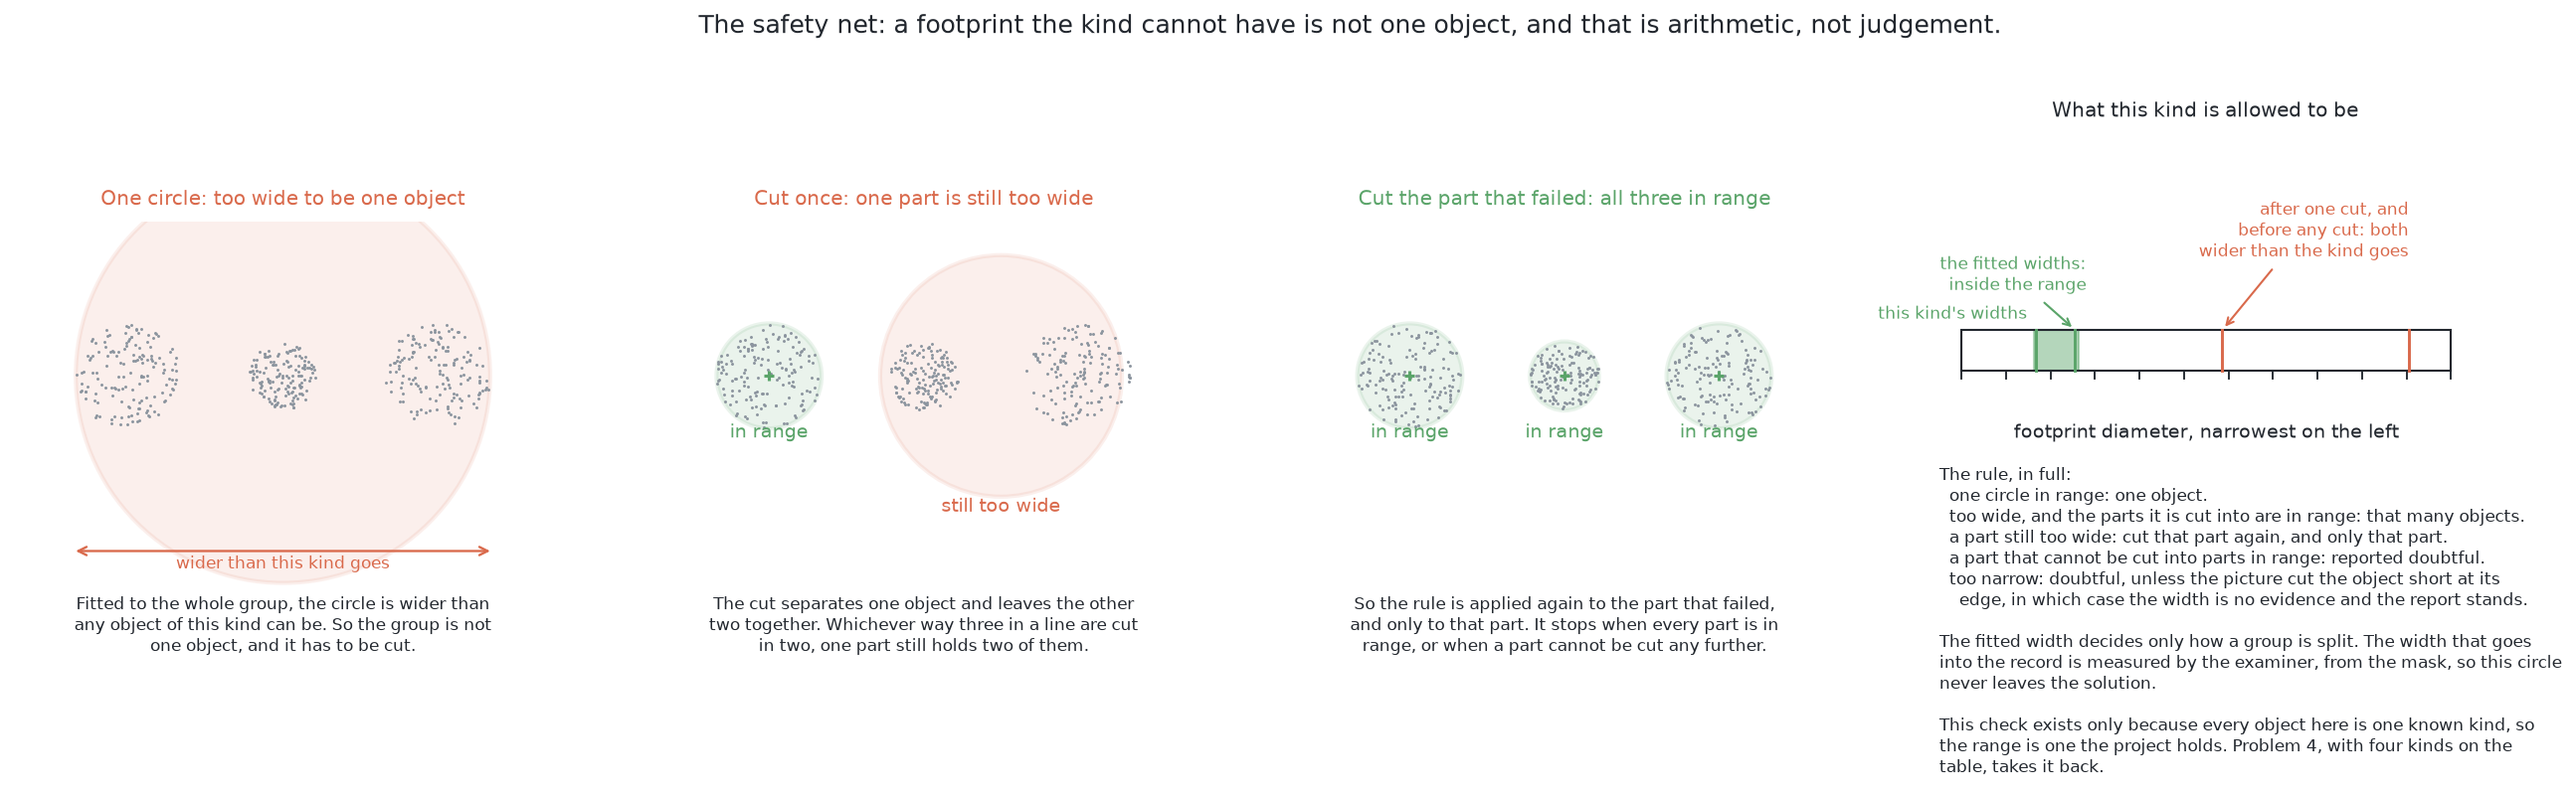
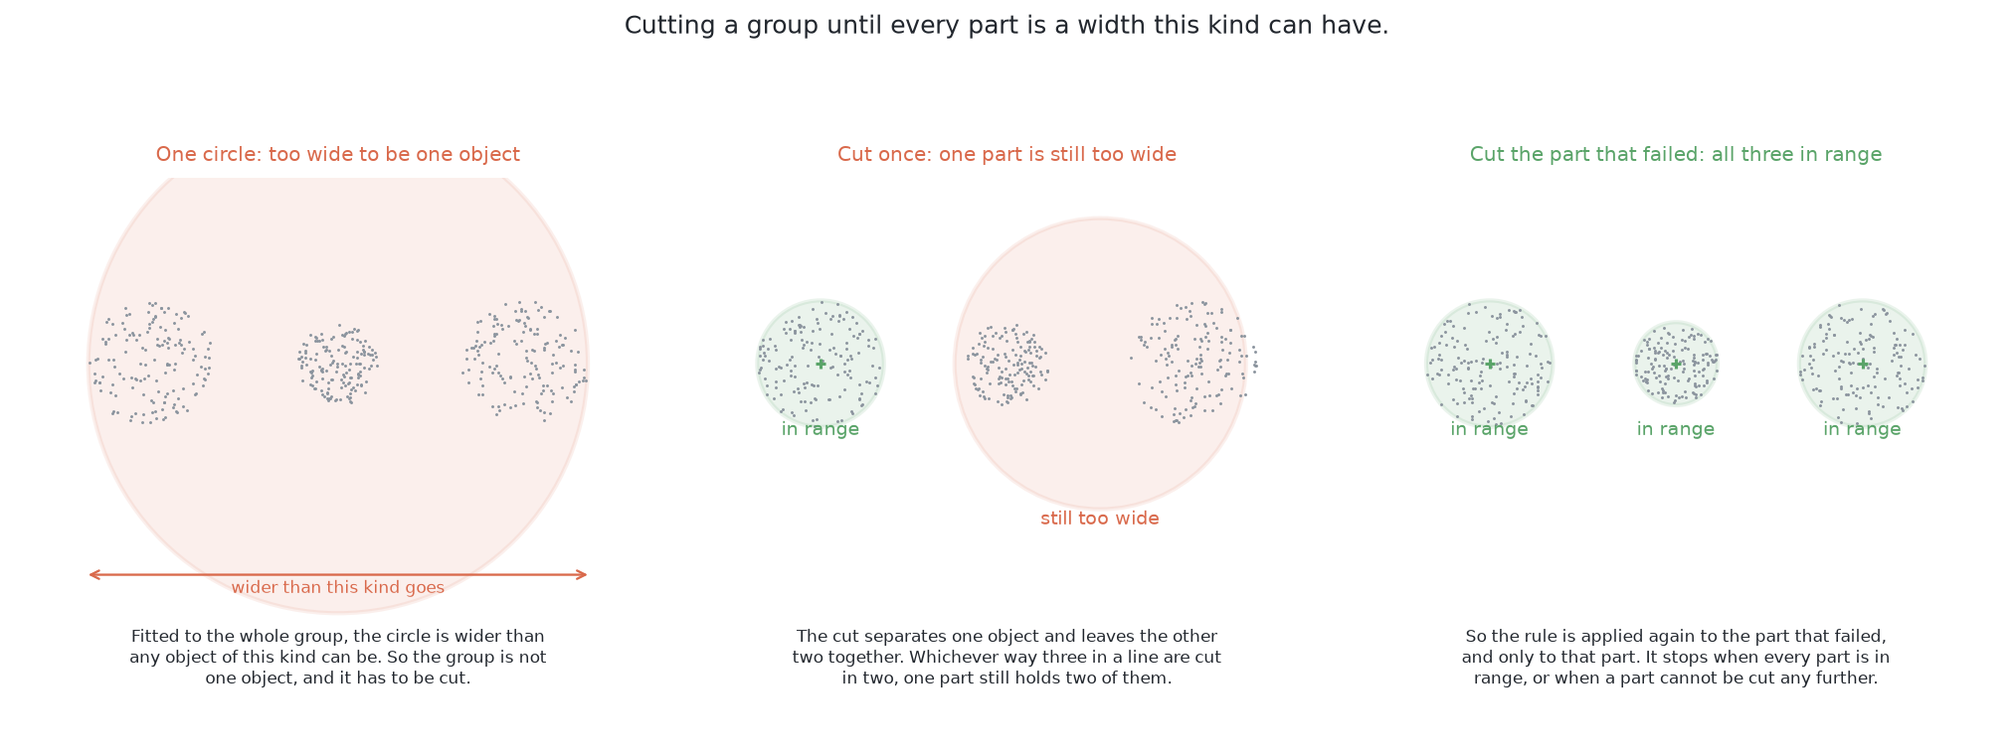
Three more pictures that were carrying two arguments each
A sweep of every multi-panel figure found three where the panels are not
one thing seen two ways, which is the only case that works.

05-where-it-stops.png was a drawing of the covered pair beside a five-step
flow chart. The chart is a whole argument on its own, so it is now its own
picture.

06-where-it-stops.png was two arrangements beside a four-row table and two
paragraphs. The two arrangements belong together and stay together; the
table is a table in the document now.

01-circle-fit-decides.png was three steps of one cutting process beside a
range bar carrying a six-line rule. The three steps stay together, the
range bar is its own picture, and the rule was already prose a few
paragraphs above it.

diff --git a/v5-pick-glasses/images/generators/02-segment-glasses/make_06_images.py b/v5-pick-glasses/images/generators/02-segment-glasses/make_06_images.py
@@ -651,7 +651,11 @@ def figure_where_it_stops() -> None:
     gone_amodal, gone_modal = far_masks[HIDING_SHORT[0]]
     gone_area = area_of(gone_modal, far_step)
 
-    figure, (works, stops, ladder) = new(16.2, 5.6, columns=3)
+    # Two panels, not three. The two arrangements are the same question seen
+    # twice, so they belong in one picture. The third panel was a table and two
+    # paragraphs, which were never a picture, and they are prose in the
+    # document now.
+    figure, (works, stops) = new(11.6, 5.6, columns=2)
 
     window = mask_window(amodal, near_x, near_y, pad=26.0)
     plan_panel(works, window)
@@ -683,40 +687,6 @@ def figure_where_it_stops() -> None:
          f"{HIDING_SHORT[0]}, which stands "
          f"{np.hypot(*(HIDING_SHORT[1] - HIDING_TALL[1])):.0f} mm away.", colour=INK)
 
-    bare(ladder)
-    ladder.set_xlim(0, 100)
-    ladder.set_ylim(-34, 104)
-    panel_title(ladder, "What each case gives the model to work with")
-    rungs = (
-        ("pixels in the picture", f"{100.0 * kept:.0f}% of the glass", "none at all"),
-        ("a slot filled by it", "yes", "nothing fills a slot"),
-        ("a mask to complete", "yes", "no mask to extend"),
-        ("a place on the table", "from the pixels seen", "no glass is reported"),
-    )
-    ladder.text(46, 99, "partly covered", ha="center", va="bottom", fontsize=NOTE_SIZE, color=GOOD,
-                weight="bold")
-    ladder.text(84, 99, "covered completely", ha="center", va="bottom", fontsize=NOTE_SIZE,
-                color=WARN, weight="bold")
-    for index, (stage, good_text, bad_text) in enumerate(rungs):
-        y = 86 - index * 21
-        ladder.text(0, y, stage, ha="left", va="center", fontsize=NOTE_SIZE, color=INK)
-        ladder.text(46, y, good_text, ha="center", va="center", fontsize=NOTE_SIZE, color=GOOD)
-        ladder.text(84, y, bad_text, ha="center", va="center", fontsize=NOTE_SIZE, color=WARN)
-        ladder.plot([0, 100], [y - 10.5, y - 10.5], color=MUTED, lw=0.6, alpha=0.6)
-    note(ladder, 0, -6,
-         "Completion extends evidence, so it needs evidence to\n"
-         "extend. The first rung is where the completely covered\n"
-         "glass fails, and no amount of training reaches a rung\n"
-         "below the one it stands on.\n\n"
-         "This is why the checks in this project are checks on\n"
-         "something that was found, and why a glass that was\n"
-         "never found is the dangerous case. The way out is not\n"
-         "a better model but a second look from somewhere else,\n"
-         "which is what moving the camera is for: turn the pair\n"
-         "about the camera and the hiding is undone, because\n"
-         "splay acts along the direction out from the camera and\n"
-         "not across it.", colour=INK, va="top")
-
     figure.suptitle(
         "Amodal completion extends what was seen, so a glass that appears in no picture is beyond "
         "it.",
@@ -727,14 +697,8 @@ def figure_where_it_stops() -> None:
         0.5, -0.03,
         f"Both pairs are arrangements the cell allows: the centres are "
         f"{np.hypot(*(BITTEN[1] - OCCLUDER_FAR[1])):.0f} mm apart on the left and "
-        f"{np.hypot(*(HIDING_SHORT[1] - HIDING_TALL[1])):.0f} mm apart on the right, and the cell "
-        f"guarantees at least {MIN_APART:.0f} mm. Whether one silhouette covers another is decided "
-        "by the same test the rest of these\ndiagrams use, which walks the boundary of the covered "
-        "glass's silhouette and asks whether every point of it lies inside the covering one. On the "
-        "right that test is true, so the short glass contributes no pixels, no slot is filled with "
-        "it, and there is\nno mask to extend. The one glass that does come back is the tall glass "
-        "itself, with a correct mask over its own pixels and a width this kind is allowed to have, "
-        "so nothing anywhere says a glass is missing.",
+        f"{np.hypot(*(HIDING_SHORT[1] - HIDING_TALL[1])):.0f} mm apart on the right,\nand the cell "
+        f"guarantees at least {MIN_APART:.0f} mm.",
         ha="center", va="top", fontsize=NOTE_SIZE, color=INK,
     )
     print(f"  where it stops: partly covered keeps {100.0 * kept:.0f}%, "

diff --git a/v5-pick-glasses/images/generators/02-segment-glasses/make_05_images.py b/v5-pick-glasses/images/generators/02-segment-glasses/make_05_images.py
@@ -1108,10 +1108,12 @@ def figure_where_it_stops() -> None:
     on_short = hits.count(short)
     assert on_short == 0, "a covered glass must collect no prompt points at all"
 
-    figure, (left, right) = new(14.8, 7.0, columns=2)
+    # Two pictures, not two panels. The scene is one idea and the chain of
+    # five steps is a whole argument on its own, and a flow chart beside a
+    # drawing halves the size of both.
+    figure, left = new(8.6, 5.4)
 
     plan_axis(left, extent)
-    panel_title(left, "The top view: one silhouette, two glasses", colour=WARN)
     splay_patch(left, shapes[tall], colour=GLASS, alpha=0.20, zorder=3)
     for index, (centre, radius) in enumerate(shapes[short]):
         if index % 9 == 0 or index == len(shapes[short]) - 1:
@@ -1139,10 +1141,24 @@ def figure_where_it_stops() -> None:
          f"{on_short} landed on the short glass.",
          colour=INK, va="bottom", halo=True)
 
+    figure.suptitle(
+        "A glass with no pixels of its own: the tall one's outline covers the short one entirely.",
+        fontsize=TITLE_SIZE, color=INK, y=1.01,
+    )
+    figure.tight_layout()
+    figure.text(
+        0.5, -0.02,
+        f"Both glasses are of the one kind on the table, one near the tall end of its range of sizes and one "
+        f"near the short end,\nstanding {apart:.0f} mm apart, which is further apart than the guaranteed "
+        f"gap of {MIN_APART:.0f} mm. The arrangement is an ordinary one.",
+        ha="center", va="top", fontsize=NOTE_SIZE, color=INK,
+    )
+    save(figure, "05-where-it-stops.png")
+
+    figure, right = new(8.6, 5.2)
     bare(right)
     right.set_xlim(0, 1)
     right.set_ylim(0, 1)
-    panel_title(right, "Why nothing in this solution can catch it")
 
     chain = (
         ("the geometry", f"the tall glass stands {apart:.0f} mm from the short one,\n"
@@ -1176,22 +1192,17 @@ def figure_where_it_stops() -> None:
     )
 
     figure.suptitle(
-        "Where this solution stops: a prompt is a pixel, and a glass with no pixels cannot be prompted.",
+        "Why nothing in this solution catches it: a prompt is a pixel, and this glass has none.",
         fontsize=TITLE_SIZE, color=INK, y=1.01,
     )
     figure.tight_layout()
     figure.text(
         0.5, -0.03,
-        f"Both glasses here are of the one kind on the table, one near the tall end of its range of sizes "
-        f"and "
-        f"one near the short end, standing {apart:.0f} mm apart, "
-        f"which is further\napart than the guaranteed gap of {MIN_APART:.0f} mm. The arrangement "
-        "is an ordinary one, and the project's own coverage test confirms that every point of the short "
-        "glass's\noutline falls inside the tall one's. This is the same "
-        "limit every solution in this problem meets, and it is geometry, not a weakness of any model.",
+        "This is the same limit every solution in this problem meets, and it is geometry rather than a "
+        "weakness of any model.",
         ha="center", va="top", fontsize=NOTE_SIZE, color=INK,
     )
-    save(figure, "05-where-it-stops.png")
+    save(figure, "05-why-nothing-catches-it.png")
     print(f"  hidden pair: {apart:.0f} mm apart, tall patch {patch_mm:.0f} mm across, "
           f"{on_tall} prompt points on the tall glass, {on_short} on the short one")
 

diff --git a/v5-pick-glasses/images/generators/02-segment-glasses/make_01_images.py b/v5-pick-glasses/images/generators/02-segment-glasses/make_01_images.py
@@ -575,7 +575,10 @@ def figure_circle_fit() -> None:
     produce, and it is the reason one split into two cannot be enough: whichever
     way a group of three is cut in two, one of the two parts still holds two.
     """
-    figure, (one, once, twice, ruler) = new(18.2, 5.4, columns=4)
+    # Three panels, not four. The three cuts are one process in three steps, so
+    # they belong in one picture. The ruler is a different claim and gets a
+    # picture of its own, and the six-line rule it carried is prose now.
+    figure, (one, once, twice) = new(13.6, 5.4, columns=3)
 
     # Three in a line, which is what the crowded tables stand up.
     blobs = (
@@ -628,11 +631,18 @@ def figure_circle_fit() -> None:
          "part. It stops when every part is in\nrange, or when a part cannot be cut any further.",
          colour=INK, ha="center", va="top")
 
+    figure.suptitle(
+        "Cutting a group until every part is a width this kind can have.",
+        fontsize=TITLE_SIZE, color=INK, y=1.02,
+    )
+    figure.tight_layout()
+    save(figure, "01-circle-fit-decides.png")
+
     # the ruler the decision is made against
+    figure, ruler = new(9.0, 3.2)
     bare(ruler)
     ruler.set_xlim(-22, 460)
-    ruler.set_ylim(-3.4, 2.0)
-    panel_title(ruler, "What this kind is allowed to be")
+    ruler.set_ylim(-1.1, 2.0)
     ruler.add_patch(Rectangle((KIND_NARROWEST, 0), KIND_WIDEST - KIND_NARROWEST, 0.34,
                               facecolor=GOOD, alpha=0.45, edgecolor=GOOD, lw=1.0))
     ruler.add_patch(Rectangle((0, 0), 440, 0.34, facecolor="none", edgecolor=INK, lw=1.0))
@@ -666,31 +676,12 @@ def figure_circle_fit() -> None:
         color=WARN,
         arrowprops={"arrowstyle": "->", "color": WARN, "lw": 1.0},
     )
-    ruler.text(
-        -20, -0.80,
-        "The rule, in full:\n"
-        "  one circle in range: one object.\n"
-        "  too wide, and the parts it is cut into are in range: that many objects.\n"
-        "  a part still too wide: cut that part again, and only that part.\n"
-        "  a part that cannot be cut into parts in range: reported doubtful.\n"
-        "  too narrow: doubtful, unless the picture cut the object short at its\n"
-        "    edge, in which case the width is no evidence and the report stands.\n\n"
-        "The fitted width decides only how a group is split. The width that goes\n"
-        "into the record is measured by the examiner, from the mask, so this circle\n"
-        "never leaves the solution.\n\n"
-        "This check exists only because every object here is one known kind, so\n"
-        "the range is one the project holds. Problem 4, with four kinds on the\n"
-        "table, takes it back.",
-        ha="left", va="top", fontsize=NOTE_SIZE, color=INK,
-    )
-
     figure.suptitle(
-        "The safety net: a footprint the kind cannot have is not one object, and that is arithmetic, "
-        "not judgement.",
+        "A footprint the kind cannot have is not one object, and that is arithmetic.",
         fontsize=TITLE_SIZE, color=INK, y=1.02,
     )
     figure.tight_layout()
-    save(figure, "01-circle-fit-decides.png")
+    save(figure, "01-the-widths-against-the-range.png")
 
 
 # --------------------------------------------------------------------------- #

diff --git a/v5-pick-glasses/docs/02-segment-glasses/solutions/06-rf-detr-fine-tuned.md b/v5-pick-glasses/docs/02-segment-glasses/solutions/06-rf-detr-fine-tuned.md
@@ -797,7 +797,30 @@ model that extends nothing produces nothing. What completion does buy is that
 it needs less of a glass than anything else here, so the point at which hiding
 becomes complete is further out with it than without it.
 
-![A partly covered glass still reaches the picture, so it fills a slot of its own and leaves an edge to carry on from, while a glass whose outline is swallowed whole reaches it nowhere and leaves nothing to extend, which is the way at which completion stops.](../../../images/02-segment-glasses/06-where-it-stops.png)
+![Two arrangements side by side: on the left a glass two thirds of which reaches the picture, with the covered part marked, and on the right a glass whose outline is swallowed whole by a taller one in front of it.](../../../images/02-segment-glasses/06-where-it-stops.png)
+
+The table below sets the two cases against each other, one row for each thing
+the model needs before it can answer at all. Read a row as a question, and the
+two columns after it as the answer in each case.
+
+| what the model needs | partly covered | covered completely |
+| --- | --- | --- |
+| pixels in the picture | 67 per cent of the glass | none at all |
+| a slot filled by it | yes | nothing fills a slot |
+| a mask to complete | yes | no mask to extend |
+| a place on the table | from the pixels seen | no glass is reported |
+
+The first row is where the completely covered glass fails, and no amount of
+training reaches a row below the one it stands on. This is why every check in
+this project is a check on something that was found, and why a glass that was
+never found is the dangerous case. The one glass that does come back on the
+right is the tall glass itself, with a correct mask over its own pixels and a
+width this kind is allowed to have, so nothing anywhere says a glass is missing.
+
+The way out is not a better model but a second look from somewhere else, which
+is what moving the camera is for. Turn the pair about the camera and the hiding
+is undone, because splay acts along the direction out from the camera and not
+across it.
 
 A model **could** be trained to mark a glass that might be behind this one,
 since the examiner can supply that label too, and it is worth saying what such

diff --git a/v5-pick-glasses/docs/02-segment-glasses/solutions/01-rules-on-the-table.md b/v5-pick-glasses/docs/02-segment-glasses/solutions/01-rules-on-the-table.md
@@ -481,7 +481,15 @@ frame, and a refusal when they do not. And if any part cannot be settled either
 way, the whole group is reported as doubtful, with which side of the range it
 failed, rather than guessed at.
 
-![One circle fitted to the whole group comes out wider than any glass of this kind can be, so the group is rejected as one glass and two circles are fitted instead; both of those lie inside the widths the kind allows, so the group is split in two, and the fitted width decides only the split, because the width that goes into the record is measured by the examiner.](../../../images/02-segment-glasses/01-circle-fit-decides.png)
+![Three steps on one group of three objects: one circle round all of them is too wide, one cut leaves a part that is still too wide, and cutting that part again leaves three parts all inside the range.](../../../images/02-segment-glasses/01-circle-fit-decides.png)
+
+The picture below is the ruler those three steps are measured against. It is a
+line of footprint diameters from narrow to wide, with the band this kind is
+allowed to be marked on it. The two fitted widths that passed sit inside the
+band, and the two that failed, before any cut and after the first one, sit well
+to the right of it.
+
+![A line of footprint diameters with a narrow green band marking the widths this kind is allowed, two marks inside the band, and two marks far to the right of it.](../../../images/02-segment-glasses/01-the-widths-against-the-range.png)
 
 Splitting a group in two is done with a simple and well-known method called
 k-means with two centres: put one seed at each end of the group's longest

diff --git a/v5-pick-glasses/docs/02-segment-glasses/solutions/05-sam2-with-a-keeper.md b/v5-pick-glasses/docs/02-segment-glasses/solutions/05-sam2-with-a-keeper.md
@@ -884,7 +884,16 @@ no box and no rough mask that makes a model return a glass which cast no
 pixels. With no proposal for the hidden glass, the keeper's three answers are
 never asked for, and every check here is a check on a proposal.
 
-![A prompt point over the piece of table where the hidden glass stands lands on the covering glass, so the mask that comes back is the covering glass's, no proposal for the hidden glass ever exists, and the keeper is never consulted about it.](../../../images/02-segment-glasses/05-where-it-stops.png)
+The first picture is the arrangement itself, seen from above. The short glass
+stands entirely inside the tall one's outline, so not one of the 464 prompt
+points can land on it.
+
+![A top view of two glasses, where the tall one's splayed outline covers the short one completely and every prompt point that falls on the pair lands on the tall glass.](../../../images/02-segment-glasses/05-where-it-stops.png)
+
+The second picture follows that geometry through the solution, one step at a
+time, to show that there is no stage at which anything could have noticed.
+
+![Five steps from the geometry to the keeper: no pixel, so no prompt, so no proposal, so the keeper is never shown the glass at all.](../../../images/02-segment-glasses/05-why-nothing-catches-it.png)
 
 One temptation is worth naming, because this solution invites it. A foundation
 model's strength is that it generalises to objects it never saw, and it is easy
